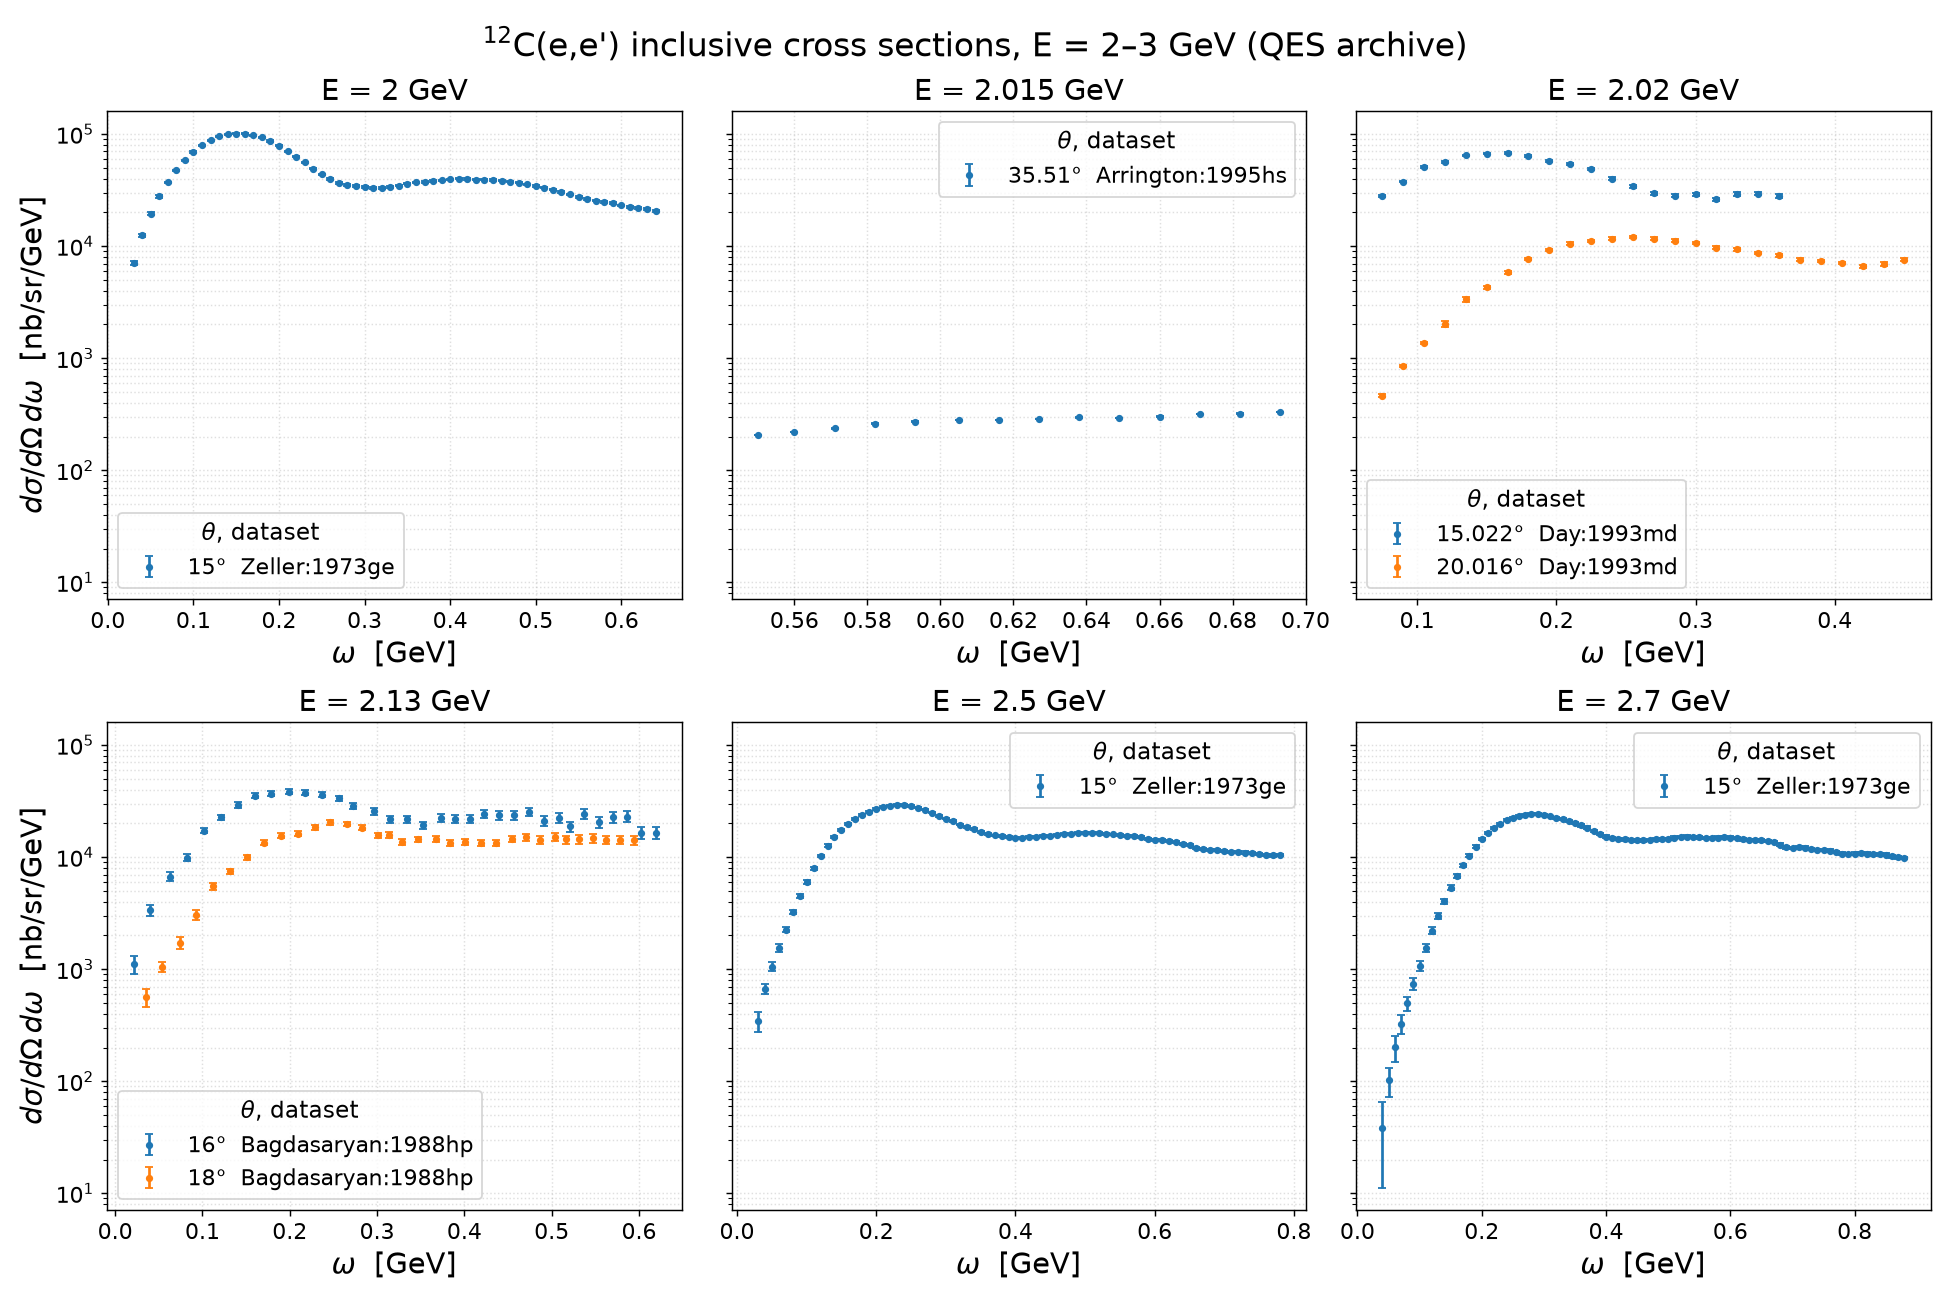
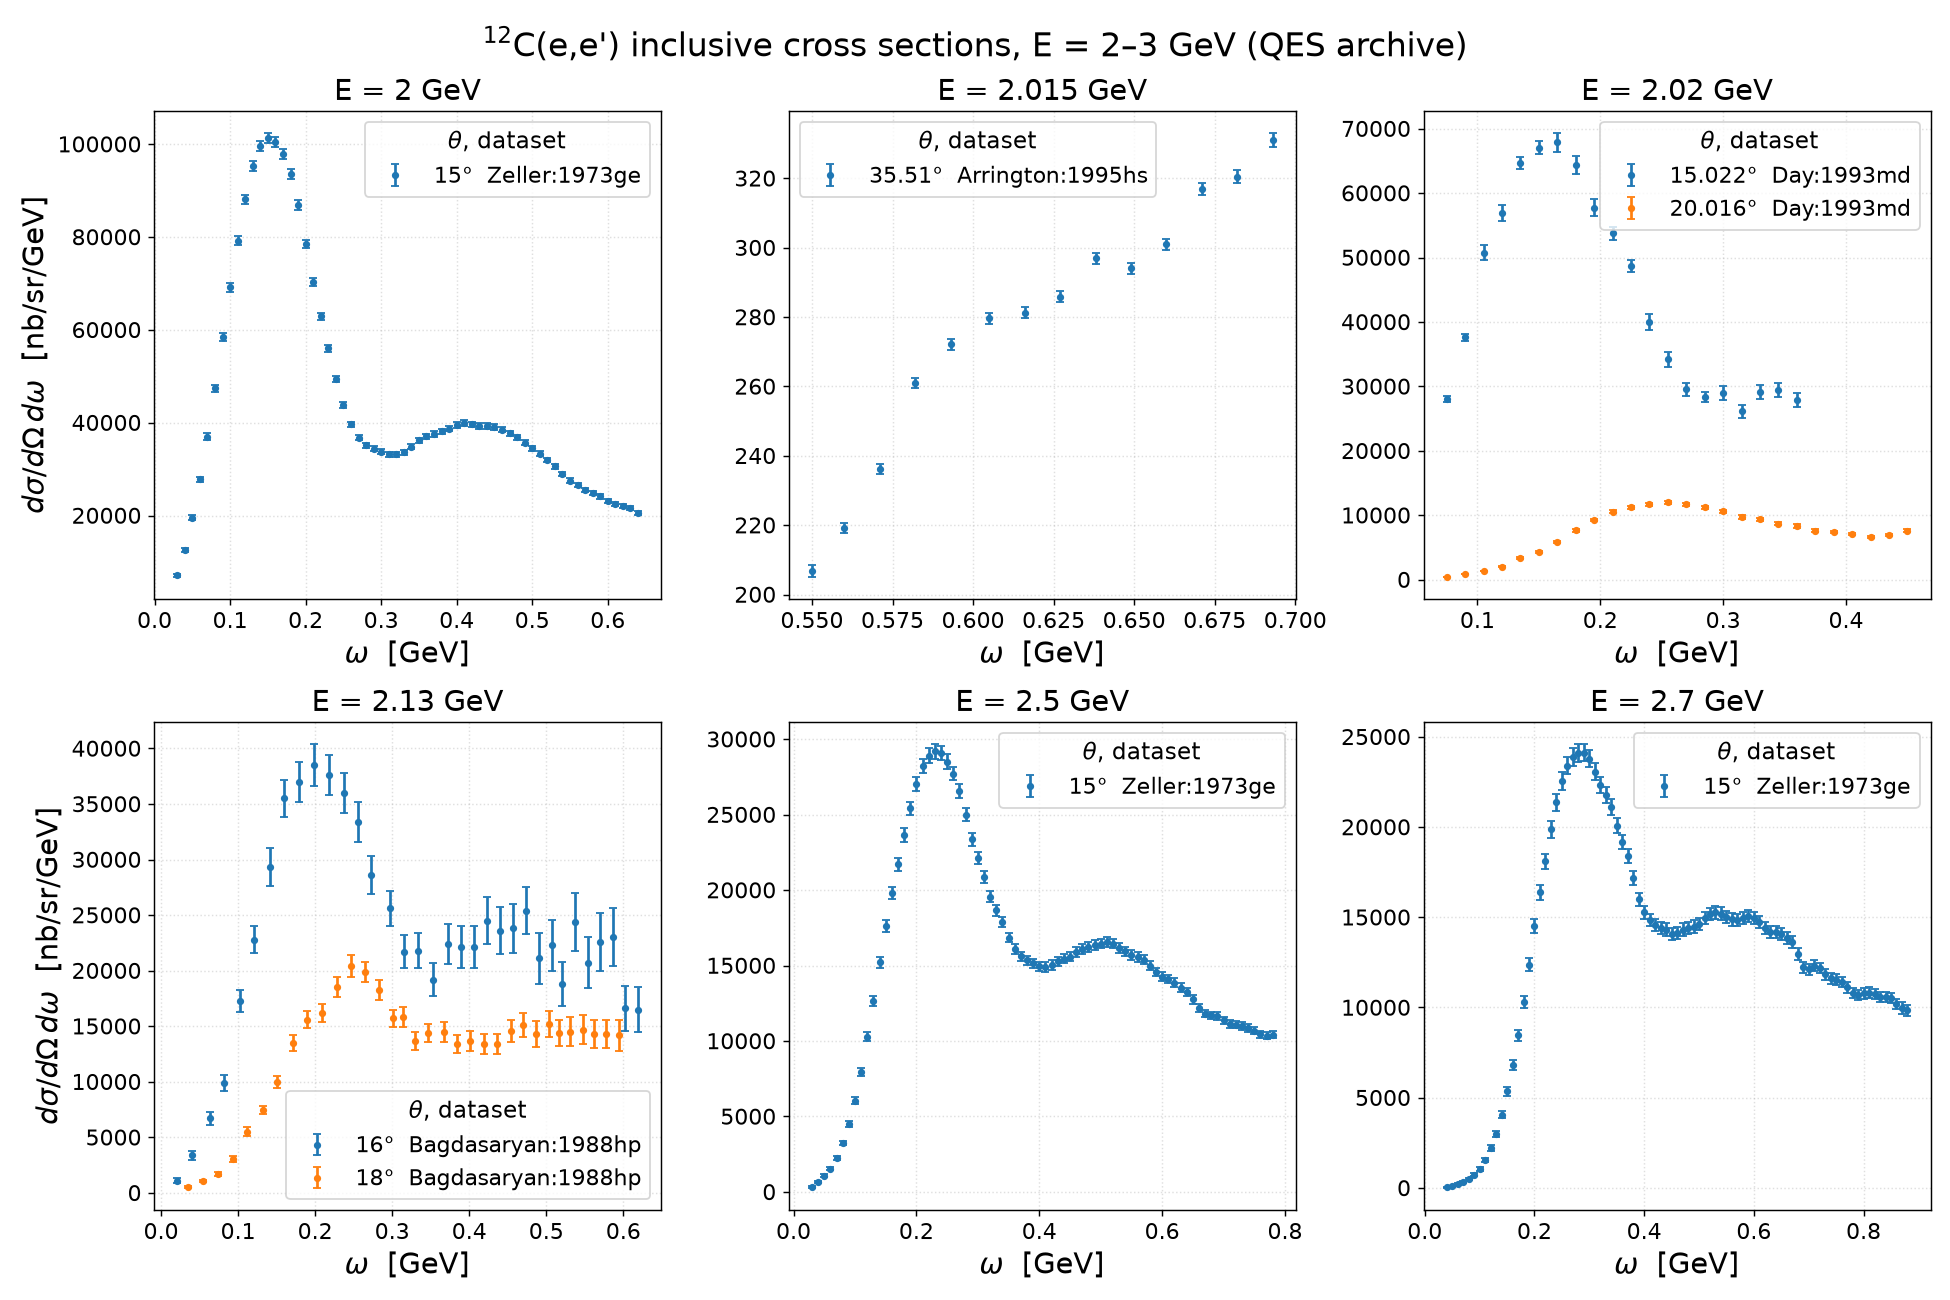
report: linear-axis regeneration + full-archive coverage figures
Regenerate the 2-3 GeV figures with the new linear-axis default
(per-panel y scale since settings span ~3 decades in sigma), and add
make_electron_scattering_all.py: every QES-archive setting for 12C
(39 energies incl. the 2024 Mihovilovic 855 MeV set) and 56Fe
(46 energies), one panel per beam energy; a panel opts into log y only
when its settings span more than two decades.

diff --git a/report/make_electron_scattering_all.py b/report/make_electron_scattering_all.py
@@ -1,0 +1,84 @@
+"""Plot ALL QES-archive inclusive (e,e') settings for 12C and 56Fe.
+
+Companion to make_electron_scattering_data.py (which covers only 2-3 GeV):
+one panel per beam energy, one series per (theta, citation). Axes are linear
+by default; a panel opts into log y when its settings span more than two
+decades in sigma (the multi-angle >= 4 GeV sets), per the plot-style rule.
+12C includes the 2024 Mihovilovic 855 MeV / 70 deg set from Miho_12C.dat
+(MeV units in the source file, converted here).
+
+Run: pixi run python report/make_electron_scattering_all.py
+"""
+
+import sys
+from collections import defaultdict
+from pathlib import Path
+
+REPO = Path(__file__).resolve().parent.parent
+sys.path.insert(0, str(REPO / "results" / "template"))
+from plot_style import (apply_style, new_panels, style_axis, COLORS,
+                        FS_LABEL, FS_LEGEND, FS_LEGEND_TITLE, FS_SUPTITLE, DPI)
+
+DATA = REPO / "data" / "qes-archive"
+OUT = REPO / "report"
+NCOLS = 3
+LOGY_RATIO = 100.0    # panel switches to log y above this max/min sigma spread
+
+
+def load(datfile, scale=1.0):
+    """-> {E: {(theta, citation): ([omega], [sigma], [err])}}, energies in GeV."""
+    by_e = defaultdict(lambda: defaultdict(lambda: ([], [], [])))
+    for line in datfile.read_text().splitlines():
+        t = line.split()
+        if len(t) < 8:
+            continue
+        try:
+            e, theta, omega, sigma, err = (float(t[2]) * scale, float(t[3]),
+                                           float(t[4]) * scale, float(t[5]),
+                                           float(t[6]))
+        except ValueError:        # header/comment lines (Miho file)
+            continue
+        ser = by_e[e][(theta, t[-1])]
+        ser[0].append(omega); ser[1].append(sigma); ser[2].append(err)
+    return by_e
+
+
+def plot(nucleus, by_e, png):
+    energies = sorted(by_e)
+    nrows = (len(energies) + NCOLS - 1) // NCOLS
+    fig, axes = new_panels(ncols=NCOLS, nrows=nrows, sharey=False)
+    for ax, e in zip(axes, energies):
+        allsig = [s for d in by_e[e].values() for s in d[1] if s > 0]
+        logy = max(allsig) / min(allsig) > LOGY_RATIO
+        for i, (theta, cite) in enumerate(sorted(by_e[e])):
+            om, sig, err = by_e[e][(theta, cite)]
+            ax.errorbar(om, sig, yerr=err, fmt="o", ms=3, capsize=2,
+                        color=COLORS[i % len(COLORS)],
+                        label=f"{theta:g}°  {cite}")
+        style_axis(ax, title=f"E = {e:g} GeV", xlabel="$\\omega$  [GeV]",
+                   logy=logy, ymin=None)
+        ax.legend(fontsize=FS_LEGEND - 2)
+    for ax in axes[len(energies):]:
+        ax.set_visible(False)
+    for r in range(nrows):
+        axes[r * NCOLS].set_ylabel(
+            "$d\\sigma/d\\Omega\\,d\\omega$  [nb/sr/GeV]", fontsize=FS_LABEL)
+    # reserve a fixed ~0.5 in for the suptitle: on a tall grid the default
+    # y=0.98 lands inside the first panel row
+    top = 1 - 0.5 / (5 * nrows)
+    fig.suptitle(f"{nucleus}(e,e') inclusive cross sections — "
+                 "all QES-archive settings", fontsize=FS_SUPTITLE,
+                 y=1 - 0.15 / (5 * nrows))
+    fig.tight_layout(rect=(0, 0, 1, top))
+    fig.savefig(png, dpi=DPI)
+    npts = sum(len(s[0]) for d in by_e.values() for s in d.values())
+    print(f"{png}: {len(energies)} panels, {npts} points")
+
+
+apply_style()
+
+c12 = load(DATA / "12C.dat")
+for e, d in load(DATA / "Miho_12C.dat", scale=1e-3).items():
+    c12[e].update(d)
+plot("$^{12}$C", c12, OUT / "c12_all.png")
+plot("$^{56}$Fe", load(DATA / "56Fe.dat"), OUT / "fe56_all.png")

diff --git a/report/make_electron_scattering_data.py b/report/make_electron_scattering_data.py
@@ -42,7 +42,8 @@ def plot(nucleus, datfile, png):
     energies = sorted(by_e)
     ncols = 3
     nrows = (len(energies) + ncols - 1) // ncols
-    fig, axes = new_panels(ncols=ncols, nrows=nrows, sharey=True)
+    # per-panel y scale: on linear axes the settings span ~3 decades in sigma
+    fig, axes = new_panels(ncols=ncols, nrows=nrows, sharey=False)
     for ax, e in zip(axes, energies):
         for i, (theta, cite) in enumerate(sorted(by_e[e])):
             om, sig, err = by_e[e][(theta, cite)]
@@ -50,7 +51,7 @@ def plot(nucleus, datfile, png):
                         color=COLORS[i % len(COLORS)],
                         label=f"{theta:g}°  {cite}")
         style_axis(ax, title=f"E = {e:g} GeV",
-                   xlabel="$\\omega$  [GeV]", logx=False, logy=True, ymin=None)
+                   xlabel="$\\omega$  [GeV]", ymin=None)
         ax.legend(title="$\\theta$, dataset", fontsize=FS_LEGEND,
                   title_fontsize=FS_LEGEND_TITLE)
     for ax in axes[len(energies):]:
